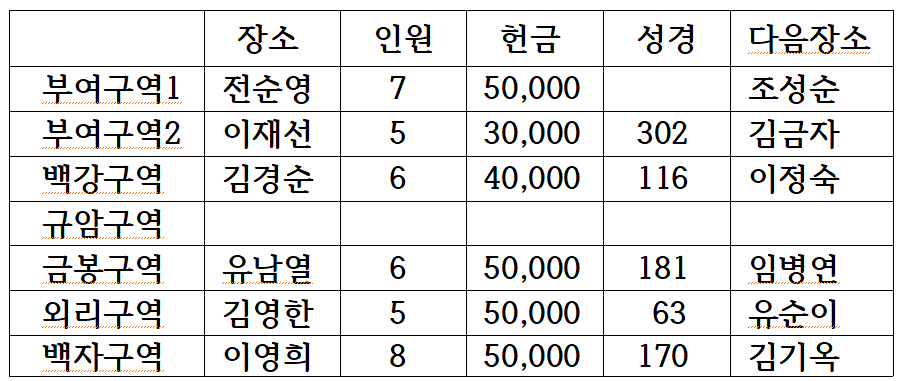
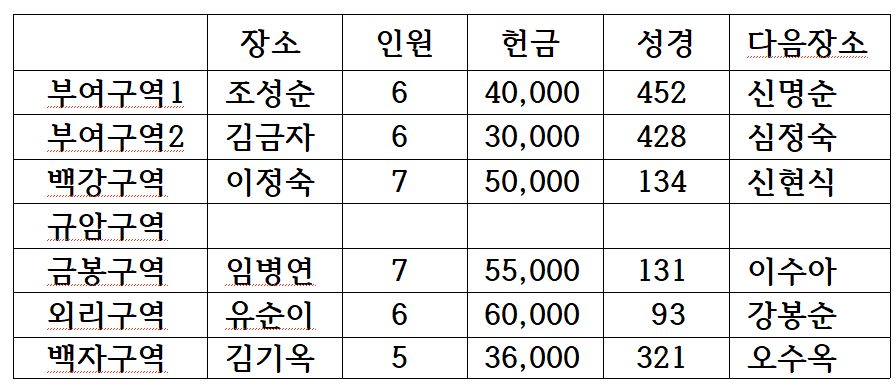
ewqdqw
efwwef

Changed region(s): [[0.0, 0.0289, 1.0, 1.0]]

diff --git a/index.html b/index.html
@@ -67,10 +67,10 @@
       <h1 class="home__title">
         열린문교회<br />
       </h1>
-      <h2 class="home__description">제 5 권 27 호  2025, 7, 6</h2>
+      <h2 class="home__description">제 5 권 28 호  2025, 7, 13</h2>
 
       <!-- 아래는 타이틀임, 안쓸 때는 주석처리하기로 -->
-      <h1 class="home__description_event">맥추감사 주일</h1>
+      <!-- <h1 class="home__description_event">맥추감사 주일</h1> -->
 
       <button class="home__contact" data-link="#contact">교회 안내</button>
     </section>
@@ -106,34 +106,33 @@
             </tr>
             <tr>
               <th>찬송</th>
-              <td>301장</td>
+              <td>570장</td>
             </tr>
             <tr>
               <th>기도</th>
               <td>
-                1부: 장옥금 권사 <br>
-                2부: 박세철 장로
+                1부: 임순석 권사 <br>
+                2부: 고승수 안수집사
               </td>
             </tr>
             <tr>
               <th>성경봉독</th>
-              <td>시 50 : 23, 눅 22 : 17 ~ 20</td>
+              <td>눅 23 : 26 ~ 31(신138) </td>
             </tr>
             <tr>
               <th>특송</th>
               <td>
-                1부: 내 모든 시험 무거운 짐을<br>
-                2부: 우리 주님께 찬양하세
+                하늘 보좌 떠나서
               </td>
             </tr>
             <tr>
               <th>교회소식</th>
               <td>인도자</td>
             </tr>
-            <!-- <tr>
+            <tr>
               <th>봉헌찬송</th>
               <td>383장</td>
-            </tr> -->
+            </tr>
             <tr>
               <th>봉헌기도</th>
               <td>인도자</td>
@@ -141,13 +140,13 @@
             <tr>
               <th>설교</th>
               <td>
-                <strong>기억할만한 감사</strong><br />
+                <strong>너희 자손을 위하여 울라</strong><br />
               </td>
             </tr>
-            <tr>
+            <!-- <tr>
               <th>성예전</th>
               <td>다같이</td>
-            </tr>
+            </tr> -->
 
             <!-- <tr>
               <th>세례식</th>
@@ -166,7 +165,7 @@
             </tr> -->
             <tr>
               <th>폐회송</th>
-              <td>감사하신 하나님</td>
+              <td>564 장</td>
             </tr>
             <tr>
               <th>축도</th>
@@ -185,12 +184,12 @@
             <tr>
               <th>1부 기도</th>
               <td>
-                임순석 권사
+                김정명 집사
               </td>
             </tr>
             <tr>
               <th>2부 기도</th>
-              <td>고승수 안수집사</td>
+              <td>오세웅 안수집사</td>
             </tr>
           </tbody>
         </table>
@@ -222,11 +221,11 @@
           <tbody>
             <tr>
               <th>기도</th>
-              <td>이현정 권사(다음 김영한 권사)</td>
+              <td>김영한 권사(다음 최양숙 권사)</td>
             </tr>
             <tr>
               <th>성경</th>
-              <td>창 12 : 1 ~ 5</td>
+              <td>출 26 : 15---30</td>
             </tr>
             <tr>
               <th>특송</th>
@@ -235,12 +234,12 @@
             <tr>
               <th>설교</th>
               <td>
-                부르심과 보내심의 은혜 (최광섭 목사)
+                성소의 벽 (널판)
               </td>
             </tr>
             <tr>
               <th>찬송</th>
-              <td>310장, 354장</td>
+              <td>354장</td>
             </tr>
           </tbody>
         </table>
@@ -258,11 +257,11 @@
             </tr>
             <tr>
               <th>성경</th>
-              <td>고전 10:23--11:1</td>
+              <td>고린도전서 11장 2-16절</td>
             </tr>
             <tr>
               <th>설교</th>
-              <td>유익을 주는 신앙</td>
+              <td>하나님의 질서</td>
             </tr>
           </tbody>
         </table>
@@ -308,7 +307,7 @@
         <!-- <h3>특별 새벽기도회</h3> -->
         <ul class="ul1">
           <li>시간: 매일 새벽 5시 50분</li>
-          <li>교육기관 위한 특별기도회</li>
+          <li>요한계시록 강해</li>
         </ul>
         <br />
       </section>
@@ -386,11 +385,10 @@
         </div>
         <h1 class="major__title">암송말씀</h1>
         <div class="major__description">
-          <p>범사에 감사하라</p>
-          <p>이것이 그리스도 예수 안에서</p> 
-          <p>너희를 향하신</p>
-          <p>하나님의 뜻이니라.</p>
-          <p>(데살로니가전서 5:18)</p>
+          <p>울며 씨를 뿌리러 나가는 자는</p>
+          <p>반드시 기쁨으로 </p> 
+          <p>그 곡식 단을 가지고 돌아오리로다</p>
+          <p>(시편126:6)</p>
         </div>
       </div>
     </section>
@@ -423,46 +421,34 @@
                 <br />
                 <p>
                   <a href="">2.</a>
-                  오늘은 맥추감사절입니다.(1, 2부 예배에 성찬식이 있습니다.)
+                  교회학교 여름행사입니다. <br>
+                  * 청년, 청소년부-7월25,26일—필그림 하우스 <br>
+                  * 유치부, 아동부-8월 1, 2일—지방회 연합
                 </p>
                 <br />
                 <br />
                 <p>
                   <a href="">3.</a>
-                  오늘저녁 7월 선교예배 강사는 최광섭 목사(논산천동교회)입니다.
+                  교회학교 여름행사와 다음세대를 위해 계속 기도해주시기 바랍니다.
                 <br />
                 <br />
                 <p>
                   <a href="">4.</a>
-                  7월 7일(월) ~ 11일(금)은 교육기관 여름행사를 위한 특별기도회입니다. <br>
-                  * 교사와 영적 후견인(기도멘토 모집--게시판)과 함께 기도합니다.
-                </p>
+                  7월 셋째주간부터 8월 넷째주간까지 구역예배를 쉬도록 하겠습니다.
                 <br />
                 
                 <p>
                   <a href="">5.</a>
-                  교회학교 여름행사입니다. <br>
-                    * 청년, 청소년부-7월25,26일—필그림 하우스<br>
-                    * 유치부, 아동부-8월 1, 2일—지방회 연합
+                  병원 입원 (배인영 집사—공주의료원) 환우들을 위해 기도해 주시기 바랍니다.
                 </p>
                 
                                 <p>
                   <a href="">6.</a>
-                  병원 입원 (배인영 집사—공주의료원) 환우들을 위해 기도해 주시기 바랍니다.
+                  떡 대접하시는 가정 (여은석 집사, 신문숙 집사—건강 회복을 감사)
                 </p>
                                 <p>
                   <a href="">7.</a>
-                  떡 대접하시는 가정 <br>
-                  * 윤여홍안수집사<br>
-                  * 심정숙 권사—건강 회복을 감사
-                </p>
-                                <p>
-                  <a href="">8.</a>
-                  정기 당회가 12일, 토요일 오후 4시에 있습니다.
-                </p>
-                                <p>
-                  <a href="">9.</a>
-                  7월 교역자 월례회가 8일(화)에 합무네교회에서 있습니다.
+                  노성교회 원로목사 및 담임목사 이취임식(7월 11일, 토, 11시)
                 </p>
                 <br />
                 <!--                 
